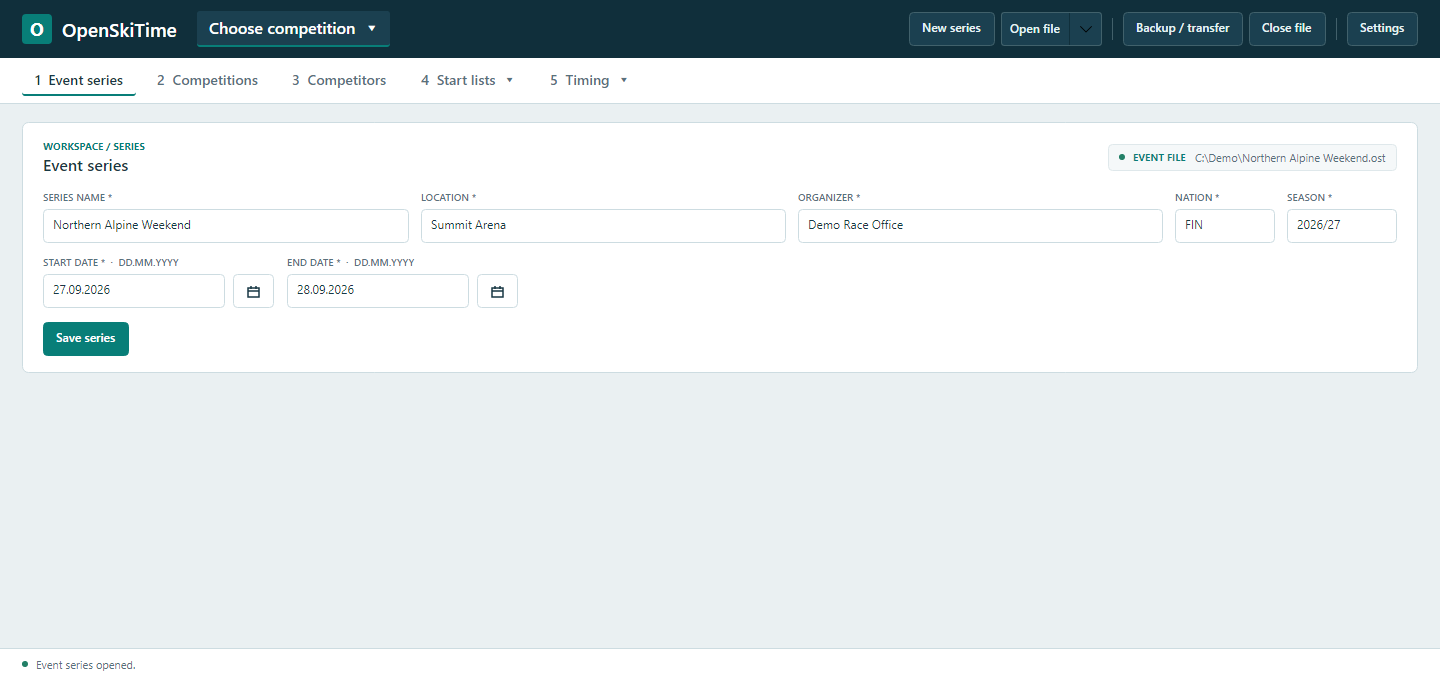
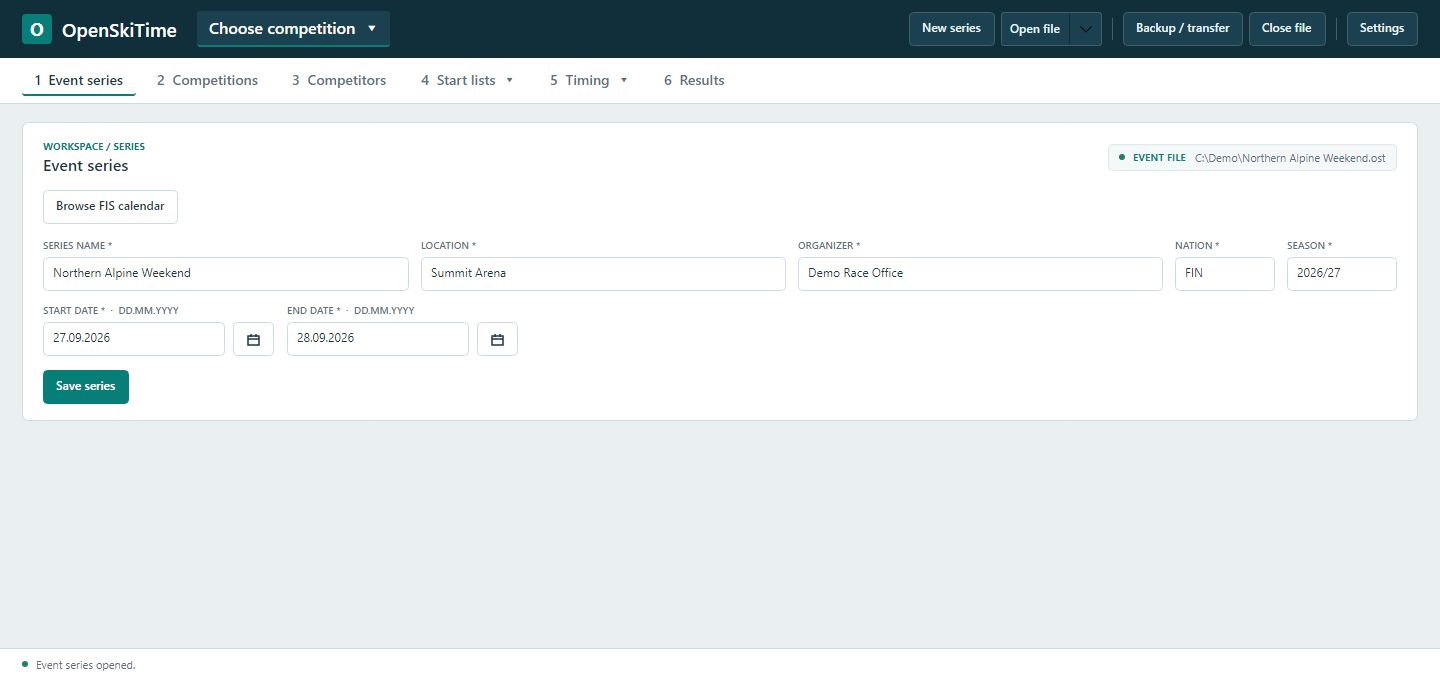
Update README features and refresh all desktop screenshots

diff --git a/rewrite/tests/OpenSkiTime.Rewrite.Desktop.Tests/ReadmeScreenshots.cs b/rewrite/tests/OpenSkiTime.Rewrite.Desktop.Tests/ReadmeScreenshots.cs
@@ -59,11 +59,15 @@ public partial class DesktopWorkflowTests
             var series = await workspace.CreateAsync(file, new("Northern Alpine Weekend", "Summit Arena", "Demo Race Office",
                 date, date.AddDays(1), "FIN", "2026/27"));
             series = await workspace.SaveCompetitionAsync(null, new("Northern Slalom Women", "SL Women", date,
-                Discipline.Slalom, RaceType.Fis, 2, 1, "DEMO-101", CourseName: "North Face", StartAltitudeMeters: 820,
-                FinishAltitudeMeters: 430, VerticalDropMeters: 390), series.Revision);
+                Discipline.Slalom, RaceType.Fis, 2, 1, "9991", CourseName: "North Face", StartAltitudeMeters: 500,
+                FinishAltitudeMeters: 300, VerticalDropMeters: 200, HomologationNumber: "DEMO/10/26",
+                Calendar: new(2027, "Summit Arena", "FIN", "FIS", "W", new("DELEGATE", "Demo", "FIN", "9999")),
+                CourseLengthMeters: 640), series.Revision);
             series = await workspace.SaveCompetitionAsync(null, new("Northern Slalom Men", "SL Men", date.AddDays(1),
-                Discipline.Slalom, RaceType.Fis, 2, 1, "DEMO-102", CourseName: "North Face", StartAltitudeMeters: 820,
-                FinishAltitudeMeters: 430, VerticalDropMeters: 390), series.Revision);
+                Discipline.Slalom, RaceType.Fis, 2, 1, "9992", CourseName: "North Face", StartAltitudeMeters: 500,
+                FinishAltitudeMeters: 300, VerticalDropMeters: 200, HomologationNumber: "DEMO/10/26",
+                Calendar: new(2027, "Summit Arena", "FIN", "FIS", "M", new("DELEGATE", "Demo", "FIN", "9999")),
+                CourseLengthMeters: 640), series.Revision);
             var women = series.Competitions[0];
             var men = series.Competitions[1];
             var revision = series.Revision;
@@ -91,7 +95,7 @@ public partial class DesktopWorkflowTests
             {
                 vm.ShowSeriesCommand.Execute(null);
                 CaptureDraw(window, output, "01-event-series.png");
-                window.Height = 760;
+                window.Height = 1150;
                 vm.ShowCompetitionsCommand.Execute(null);
                 vm.SelectedCompetition = vm.Competitions[0];
                 CaptureDraw(window, output, "02-competitions.png");
@@ -106,7 +110,13 @@ public partial class DesktopWorkflowTests
                 CaptureDraw(window, output, "04-start-lists.png");
 
                 await vm.OpenTimingRunCommand.ExecuteAsync(new DrawDestination(women, 1));
-                window.Height = 1000;
+                window.Height = 1120;
+                window.UpdateLayout();
+                var ranking = window.FindControl<TimingView>("TimingWorkspace")!.FindControl<DataGrid>("RankingGrid")!;
+                // Leave room for the operator's sort/filter controls in compact numeric headers.
+                ranking.Columns[1].Width = new DataGridLength(80);
+                ranking.Columns[2].Width = new DataGridLength(80);
+                ranking.Columns[4].Width = new DataGridLength(85);
                 vm.TimingSource = "Simulator";
                 vm.TimingIntermediateChannels = "2";
                 await vm.ConnectTimingCommand.ExecuteAsync(null);
@@ -119,7 +129,8 @@ public partial class DesktopWorkflowTests
                 {
                     vm.SimulationTime = time;
                     await vm.SimulatePulseCommand.ExecuteAsync(channel);
-                    await WaitTimingAsync(vm, () => workspace.Timing!.Snapshot!.Observations.Count > expected);
+                    await WaitTimingAsync(vm, () => workspace.Timing!.Snapshot!.Observations.Count > expected
+                        && workspace.Timing.Snapshot.Unresolved == 0);
                     expected++;
                 }
                 await Pulse("start", "12:00:00.0000");
@@ -136,6 +147,44 @@ public partial class DesktopWorkflowTests
                 await Pulse("intermediate:1", "12:01:55.2700");
                 CaptureDraw(window, output, "overview.png");
                 await vm.DisconnectTimingCommand.ExecuteAsync(null);
+
+                window.Height = 1240;
+                vm.SelectTimingBibs([1], 1);
+                vm.ShowTimingClassificationEditor = true;
+                vm.TimingClassification = "DSQ";
+                vm.TimingDsqGate = "18";
+                vm.TimingDsqReason = "Missed gate (synthetic example)";
+                vm.TimingDsqJudge = "Demo judge";
+                vm.TimingOperator = "Demo race office";
+                vm.TimingReason = "Classification review for README demonstration";
+                await vm.SaveTimingClassificationCommand.ExecuteAsync(null);
+                Assert.False(vm.IsError, vm.StatusMessage);
+                CaptureDraw(window, output, "06-classification.png");
+
+                await vm.ShowResultsCommand.ExecuteAsync(null);
+                await vm.LoadResultsCommand.ExecuteAsync(null);
+                for (var i = 0; i < vm.ResultsJury.Count; i++)
+                {
+                    vm.ResultsJury[i].FirstName = "Demo";
+                    vm.ResultsJury[i].LastName = "OFFICIAL " + (i + 1).ToString(CultureInfo.InvariantCulture);
+                    vm.ResultsJury[i].Nation = "FIN";
+                }
+                foreach (var run in vm.ResultsRuns)
+                {
+                    run.Setter.FirstName = "Demo"; run.Setter.LastName = "SETTER"; run.Setter.Nation = "FIN";
+                    run.Gates = "52"; run.TurningGates = "50";
+                    run.StartTime = run.Number == 1 ? "12:00" : "14:00";
+                    run.Length = "640";
+                    run.Conditions = "Clear"; run.Snow = "Hard";
+                    run.StartTemperature = "-3.0"; run.FinishTemperature = "-1.5";
+                    run.AddForerunnerCommand.Execute(null);
+                    run.Forerunners[0].FirstName = "Demo";
+                    run.Forerunners[0].LastName = "FORERUNNER";
+                    run.Forerunners[0].Nation = "FIN";
+                }
+                Assert.True(await vm.FlushRaceInformationAsync(), vm.RaceInformationStatus);
+                window.Height = 1120;
+                CaptureDraw(window, output, "07-race-information.png");
             }
             finally { window.Close(); }
         }

diff --git a/README.md b/README.md
@@ -1,6 +1,6 @@
 # OpenSkiTime
 
-OpenSkiTime is a desktop race-office application for alpine skiing. It brings registration, start lists and live timing into one compact workspace. The app is built with .NET 10 and Avalonia, runs locally on Windows, and keeps each event series in a portable `.ost` file. Race operation can continue offline.
+OpenSkiTime is a desktop race-office application for alpine skiing. It brings registration, start lists, timing and result preparation into one compact workspace. Built with .NET 10 and Avalonia, it runs locally on Windows and keeps each event series in a portable `.ost` file. Local race operation works offline; FIS lookups and online publishing are optional.
 
 ![Race control showing the start order, athletes on course, timestamps and ranking](docs/screenshots/overview.png)
 
@@ -8,51 +8,76 @@ OpenSkiTime is a desktop race-office application for alpine skiing. It brings re
 
 ## Race-office workflow
 
-1. **Event series:** create or open a series file, set its dates and organizer, and make a backup or transfer copy. The Open file menu also lists recent series.
-2. **Competitions:** add races with short names for the operator workspace and public names for outward-facing use. Set disciplines, runs and course details.
-3. **Competitors:** edit a dense, keyboard-friendly grid, paste rows from Excel, assign participation per competition, review highlighted changes and save them together. Category rules can be saved and applied. An optional alpine FIS points-list download supports searching and updating athletes by Code; the list can then be used offline.
-4. **Start lists:** choose a competition and run, draw the first-run bib order, then export TSV or open a printable view. Run 2 can be prepared from classified Run 1 results and shows those times alongside its starters.
-5. **Timing:** work from four grids: **At start**, **Running**, **Timestamps** and **Ranking**. Reorder starters, assign raw impulses by dragging athletes onto timestamps, see live elapsed times and intermediate splits, and classify DNS/DNF/DSQ from the workspace. The first assigned start impulse begins the run. Original device input and an audit trail remain in the event file.
+1. **Event series:** create or open a series file, set its dates and organizer, and make a backup or transfer copy. The Open file menu also lists recent series. Optionally import a reviewed event and its competitions from the FIS calendar.
+2. **Competitions:** set race names, dates, disciplines, runs, course details and technical delegates. Filter and sort the competition grid. Shared course details and TD information can be saved to all races in the series.
+3. **Competitors:** edit a dense, keyboard-friendly grid, paste rows from Excel, assign participation per competition, review highlighted changes and save them together. Save and apply category rules. An optional alpine FIS points-list download supports searching and updating athletes by code; the list can then be used offline.
+4. **Start lists:** choose a competition and run, draw the first-run bib order, then export TSV or open a printable view. Prepare Run 2 from classified Run 1 results, with first-run times visible alongside its starters.
+5. **Timing:** use **At start**, **Running**, **Timestamps** and **Ranking** to follow the race. Reorder starters, assign impulses, see elapsed times and splits, and classify competitors. Original device input and correction history remain in the event file.
+6. **Results:** prepare jury, course, forerunner and weather information; review calculated race points and the FIS penalty; then record TD approval and export the approved XML. Optional FIS submission is currently limited to test mode.
 
 ### 1 · Event series
 
-One portable file holds the series and its race data. **Browse FIS calendar** lets you filter alpine events by season, nation and location, review an event's races, and fill both the series and its competitions from the selection. Save a public FIS API key in Settings to use this optional online feature; missing details remain editable.
+One portable file holds the series, competitions, raw timing input, corrections and approved result revisions. Backups and transfer copies carry this history with them.
+
+**Browse FIS calendar** previews an event's races before filling the series and competitions. Column-header menus filter and sort events by dates, location, nation, event name and race count. Save a public FIS API key in Settings to use this optional online feature; missing details remain editable.
 
 ![Event series details for a fictional alpine weekend](docs/screenshots/01-event-series.png)
 
 ### 2 · Competitions
 
-Select a race to edit its identity, schedule and course details.
+Select a race to edit its identity, schedule, FIS category, course and technical delegate. **Use FIS rules** distinguishes FIS races from local competitions. Optional **Get competition data** and **Browse FIS homologations** help fill race and course details.
 
-![Competition list and editor with two fictional slalom races](docs/screenshots/02-competitions.png)
+**Save Course & Homologation to all races** and **Save TD to all races** share the selected information across the series in one save. Per-run course overrides in Results remain independent.
+
+![Competition grid and editor with fictional women's and men's slalom races](docs/screenshots/02-competitions.png)
 
 ### 3 · Competitors
 
-The registration grid keeps participation, identity, category and FIS points visible together.
+The registration grid keeps participation, identity, category and FIS points visible together. Column filters help find athletes quickly, while reviewed edits can be saved together.
 
 ![Competitor grid populated with fictional athletes and generated points](docs/screenshots/03-competitors.png)
 
 ### 4 · Start lists
 
-The competition/run selector opens the active start list directly.
+The competition/run selector opens the active start list directly. Run 2 can be prepared while timing capture stays connected.
 
-The [explanation of draw fairness and verification](docs/fis-draw-fairness.md) describes the random seed, points groups, double draw, replay procedure and the limits of what the saved history proves. A runnable example compares the production draw with an independent implementation using synthetic entrants.
+The [draw fairness and verification guide](docs/fis-draw-fairness.md) explains points groups, the double draw, saved random seeds and replay verification. A runnable example compares the production draw with an independent implementation using synthetic entrants.
 
 ![First-run start list drawn for a fictional women's slalom](docs/screenshots/04-start-lists.png)
 
-### 5 · Timing
+### 5 · Timing and classification
 
-At start and Running show the immediate race state; Timestamps and Ranking retain the full picture.
+At start and Running show the immediate race state; Timestamps and Ranking retain the full picture. Channel HOLD controls retain incoming impulses for review. Ranking columns support filtering and sorting, and keyboard shortcuts and context actions speed up race control.
 
 ![Race-control workspace during a simulated run](docs/screenshots/05-timing.png)
 
-## Timing sources and current scope
+**Edit classification** records DNS, DNF, DSQ or NPS, including after the run or after disconnecting capture. DSQ entries can include a gate, reason or ICR reference, and reporting judge. Corrections record the operator and reason; clearing or undoing a classification adds history and restores the underlying time. Raw input is preserved.
 
-OpenSkiTime has adapters for ALGE Timy 2/3 native USB, MT1 USB/serial and the ALGE Results service. A simulator and ASCII replay are available for practice. Device configuration and channel HOLD controls are described in [timing setup and operation](docs/timing.md).
+![Classification editor with a saved synthetic disqualification, gate, reason and judge](docs/screenshots/06-classification.png)
+
+See [timing setup and operation](docs/timing.md) and [post-run classification](docs/post-run-classification.md) for details.
+
+### 6 · Race information, penalty and XML
+
+Prepare race information before timing begins, or complete it afterwards. Jury members and each run's course setter, course, gates, forerunners, start time, conditions and temperatures are editable. Valid changes save automatically; invalid entries remain visible with a **Not saved** message. An optional weather browser offers race-day forecasts alongside manually entered measured temperatures.
+
+![Race information with fictional officials, a course setter, forerunner and run conditions](docs/screenshots/07-race-information.png)
+
+After the required runs are complete, Results assembles classified times and race points and calculates the FIS penalty using the saved starter points and matching points-list rule tables. Review the finishers, best starters and calculation with the TD. **TD approves · create XML** stores the exact XML and race-information snapshot as an immutable revision in the event file; **Export approved XML** writes that saved revision.
+
+**Send XML · test mode** can validate the approved file through the FIS Member API using a separate Member Section personal access token. It does not publish official results. See [race information and XML operation](docs/results-race-information.md) and [FIS penalty calculation](docs/fis-penalty-review.md).
+
+## Timing sources and live publishing
+
+OpenSkiTime has adapters for ALGE Timy 2/3 native USB, MT1 USB/serial and the ALGE Results service. A simulator and ASCII replay are available for practice. Device connection and configuration live in Settings; timing capture continues independently of optional online work.
 
 **Live timing** offers FIS TCP/HTTPS for FIS races and a standalone browser view for every race. Local publishing works offline; Cloud publishing uses the same server and can run alongside FIS. The timing view shows all three statuses and provides Start, Stop, Refresh and session deletion controls. See [live timing setup and operation](docs/live-timing.md) and [cloud server deployment](docs/live-timing-cloud-deployment.md).
 
-The current draw profile covers standard FIS two-run SL/GS and single-run DH/SG. Local category draws, special Cup, youth, snow-seed and three-run formats are not yet supported. Official result publication, FIS result submission, penalties and automatic backup-time substitution are also pending. Physical-device race acceptance still needs a complete rehearsal with independent backup timing.
+## Current scope
+
+OpenSkiTime is in pre-release development. The current draw profile covers standard FIS two-run SL/GS and single-run DH/SG. Local category draws, special Cup, youth, snow-seed and three-run formats are not yet supported. Automatic backup-time substitution and production FIS result submission are pending. Generated XML acceptance by FIS and physical-device race operation still require verification, including a complete rehearsal with independent backup timing.
+
+New series files use the current development format. Incompatible older development files are rejected without modification; automatic schema upgrades are not available. Create a new series for the current version and retain older files and backups.
 
 ## Run from source
 

diff --git a/docs/screenshots/README.md b/docs/screenshots/README.md
@@ -1,11 +1,16 @@
 # README screenshots
 
+All eight screenshots were regenerated and visually reviewed on 2026-10-03 against the current desktop source. Every simulated impulse is durably assigned before the timing captures are rendered.
+
 These images are headless Avalonia captures of a generated demo event. Athlete identities, codes, competition details and FIS-style points data are fictional; timing comes from the simulator. No personal event file or downloaded points list is checked in.
 
-To regenerate the six PNGs from the repository root, set `OPENSKITIME_README_SCREENSHOTS` to the absolute path of this directory and run:
+To regenerate the eight PNGs from the repository root, set `OPENSKITIME_README_SCREENSHOTS` to the absolute path of this directory and run:
 
 ```powershell
-dotnet test rewrite/OpenSkiTime.Rewrite.slnx --filter FullyQualifiedName~GenerateReadmeScreenshotsFromSyntheticEvent
+$env:OPENSKITIME_README_SCREENSHOTS = Join-Path (Get-Location) 'docs/screenshots'
+dotnet test rewrite/tests/OpenSkiTime.Rewrite.Desktop.Tests/OpenSkiTime.Rewrite.Desktop.Tests.csproj --filter FullyQualifiedName~GenerateReadmeScreenshotsFromSyntheticEvent
 ```
 
 The fixture creates its `.ost` file and points-list ZIP under the system temporary directory and removes them after capture.
+
+The captures cover the event series, competition editor, competitor grid, first-run start list, timing workspace, overview, saved DSQ classification and automatically saved race-information form. The race-information capture is a draft before Run 2; it does not represent approved results or an accepted FIS submission. Synthetic competition codices 9991/9992 and the demo homologation and TD details are illustrative. The fixture does not call FIS or weather services.
